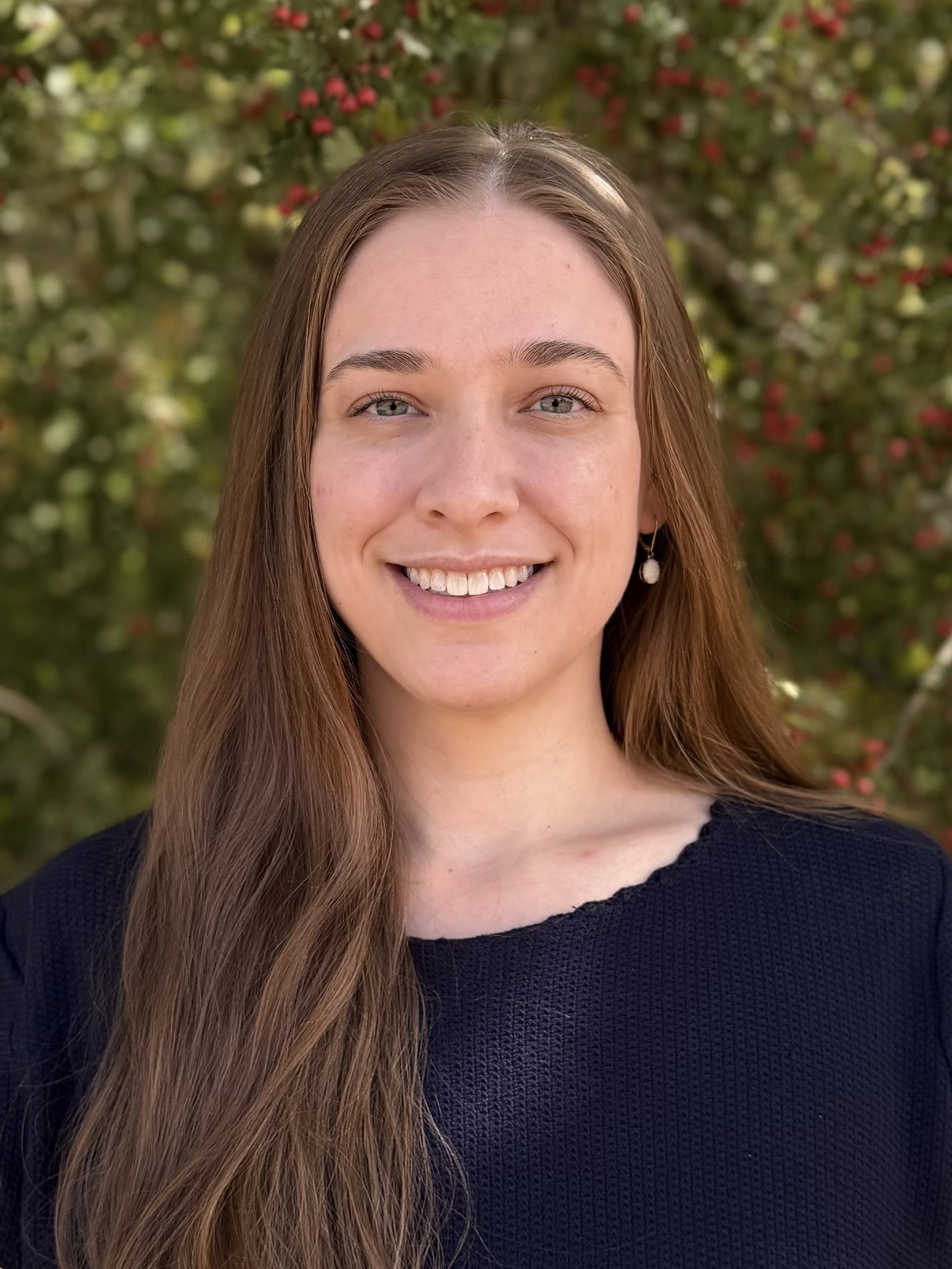
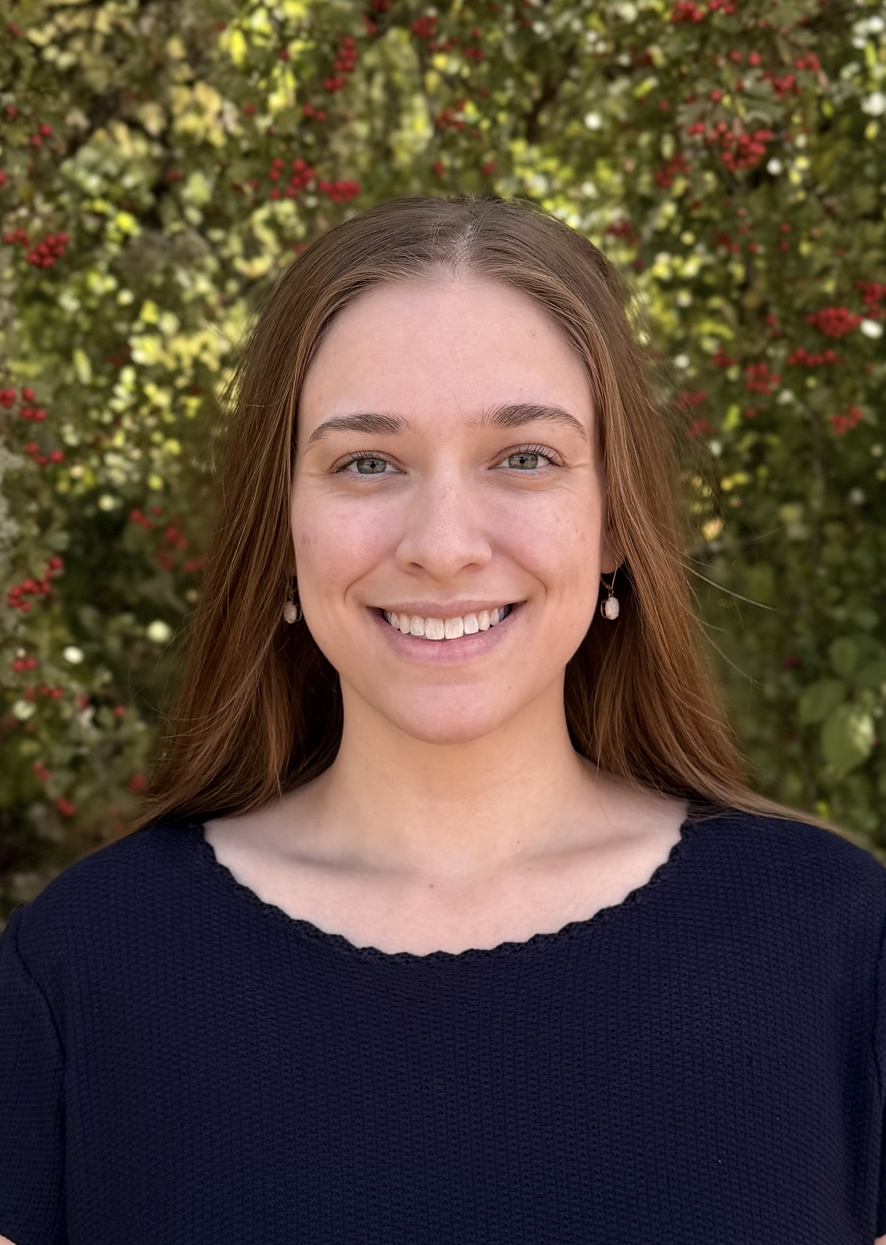
updated picture again

diff --git a/src/style.css b/src/style.css
@@ -3,7 +3,7 @@
 	--highlight-color: #7d986d;
 	--text-color: #555555;
 	--background-color: #fff8e7;
-	--content-size: 70%;
+	--content-size: 800px;
 	--header-size: 50px;
 	--navbar-height: 50px;
 }
@@ -106,7 +106,7 @@ h2 {
 	position: relative;
 	width: 100%;
 	height: var(--navbar-height);
-	margin: 25px 0px;
+	margin-bottom: 25px;
 }
 
 #navbar {
@@ -140,7 +140,7 @@ h2 {
 
 
 #amandaimg {
-	width: 232px;
+	width: 153px;
 	float: none;
 	margin: auto;
 	display: block;

diff --git a/src/index.html b/src/index.html
@@ -56,9 +56,6 @@
 <!-- Page Content -->
 <div id="content">
 
-<p>
-	<img id="amandaimg" src="images/amanda.jpg" />
-</p>
 
 <div id="navbarcontainer">
 	<div id="navbar">
@@ -71,6 +68,10 @@
 		</div>
 	</div>
 </div>
+
+<p>
+	<img id="amandaimg" src="images/amanda.jpg" />
+</p>
 
 <h2>
 	Section 1
